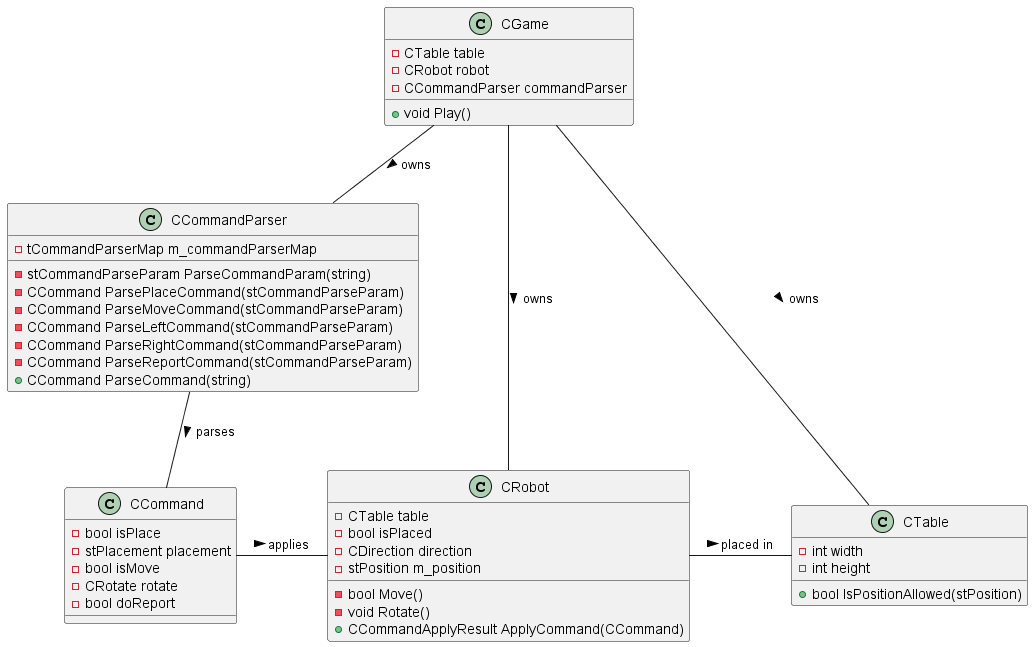
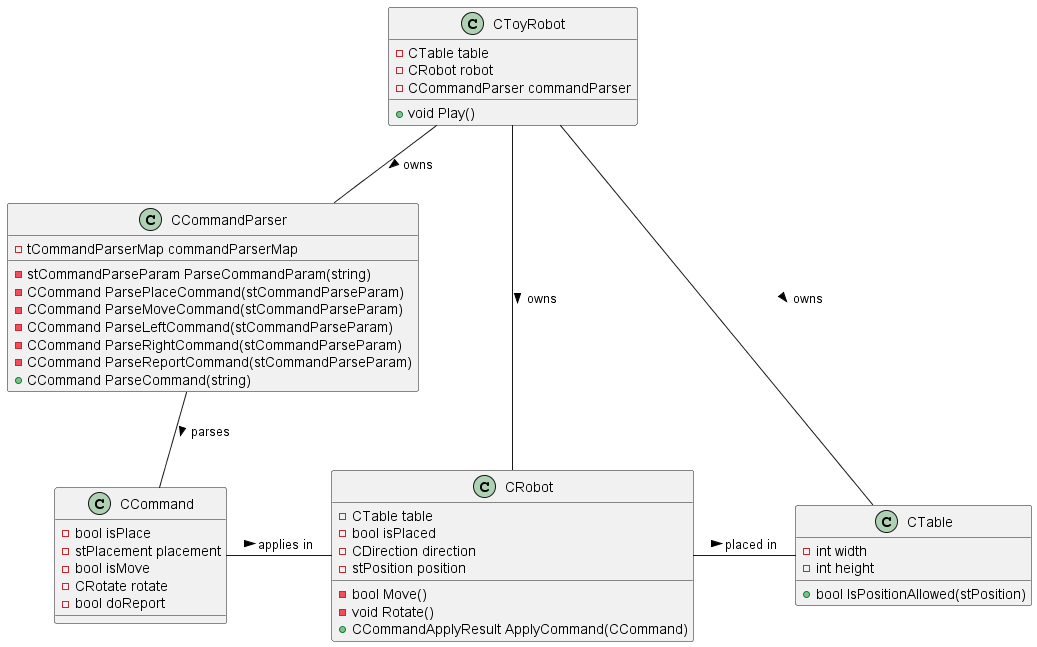
- renamed game to toy robot - updated sequence diagram : added check if robot is placed - updated class diagram : command-robot relation ship and class rename - added break in loop of direction to string if match is already found - updated make file due to rename

diff --git a/source/toy_robot.cpp b/source/toy_robot.cpp
@@ -1,4 +1,9 @@
-#include "game.hpp"
+//******************************************************************************
+/*! @file       toy_robot.cpp
+	@brief      Source definition for toy robot
+*/
+//******************************************************************************
+#include "toy_robot.hpp"
 #include "command_parser.hpp"
 #include <string>
 #include <iostream>
@@ -10,6 +15,7 @@
 #define TABLE_WIDTH		( 5 )	/* table width */
 #define TABLE_HEIGHT	( 5 )	/* table height */
 
+#define TILE_TOKEN		( " * " ) /* token for unoccupied tile */
 #define NORTH_AVATAR	( "^" )	/* avatar for robot facing NORTH */
 #define EAST_AVATAR		( ">" )	/* avatar for robot facing EAST */
 #define SOUTH_AVATAR	( "v" )	/* avatar for robot facing SOUTH */
@@ -19,35 +25,35 @@
 //               Class function definition
 //******************************************************************************
 
-CGame::CGame()
+CToyRobot::CToyRobot():
+	m_table(TABLE_WIDTH, TABLE_HEIGHT),
+	m_robot(&m_table)
 {
-	m_table = new CTable(TABLE_WIDTH, TABLE_HEIGHT);
-	m_robot = new CRobot(m_table);
+
 }
 
-CGame::~CGame()
+CToyRobot::~CToyRobot()
 {
-	delete m_robot;
-	delete m_table;
+	// do nothing
 }
 
-void CGame::PrintTable()
+void CToyRobot::PrintTable()
 {
 	std::string toPrint = " * ";
-	stPosition position = m_robot->GetPosition();
-	int height = m_table->GetHeight();
-	int width = m_table->GetWidth();
+	stPosition position = m_robot.GetPosition();
+	int height = m_table.GetHeight();
+	int width = m_table.GetWidth();
 	for (int h = height - 1; h >= 0; h--)
 	{
 		for (int w = 0; w < width; w++)
 		{
-			toPrint = " * ";
+			toPrint = TILE_TOKEN;
 
-			if (m_robot->IsPlaced())
+			if (m_robot.IsPlaced())
 			{
 				if (position.x == w && position.y == h)
 				{
-					switch (m_robot->GetDirection())
+					switch (m_robot.GetDirection())
 					{
 					case CDirection::NORTH:
 						toPrint = NORTH_AVATAR;
@@ -77,7 +83,7 @@ void CGame::PrintTable()
 	}
 }
 
-void CGame::Play()
+void CToyRobot::Play()
 {
 	CCommandParser commandParser;
 	std::string input;
@@ -100,7 +106,7 @@ void CGame::Play()
 				command = commandParser.ParseCommand(input);
 				if (nullptr != command)
 				{
-					result = m_robot->ApplyCommand(command);
+					result = m_robot.ApplyCommand(command);
 					switch (result)
 					{
 					case CCommandApplyResult::OK:

diff --git a/source/toy_robot.hpp b/source/toy_robot.hpp
@@ -1,0 +1,33 @@
+//******************************************************************************
+/*! @file       toy_robot.hpp
+	@brief      External interface for toy robot
+*/
+//******************************************************************************
+#pragma once
+
+#include "robot.hpp"
+
+/* Toy Robot class */
+class CToyRobot {
+public:
+	/**
+	* @brief Toy Robot constructor
+	*/
+	CToyRobot();
+	/**
+	* @brief Toy Robot deconstructor
+	*/
+	~CToyRobot();
+private:
+	CTable m_table;	/* table instance */
+	CRobot m_robot;	/* robot instance */
+	/*
+	* @brief prints table
+	*/
+	void PrintTable();
+public:
+	/*
+	* @brief play function
+	*/
+	void Play();
+};

diff --git a/source/main.cpp b/source/main.cpp
@@ -5,7 +5,7 @@
 //******************************************************************************
 
 #include "main.hpp"
-#include "game.hpp"
+#include "toy_robot.hpp"
 
 //******************************************************************************
 //               Public function definition
@@ -13,7 +13,7 @@
 
 int main() {
 
-	CGame game;
+	CToyRobot game;
 
 	game.Play();
 

diff --git a/source/util.cpp b/source/util.cpp
@@ -82,6 +82,7 @@ std::string DirectionToString(CDirection directionVal) {
         curr = s_directionConverter[i];
         if (curr.directionVal == directionVal) {
             directionName = curr.directionName;
+            break;
         }
         i++;
     }
